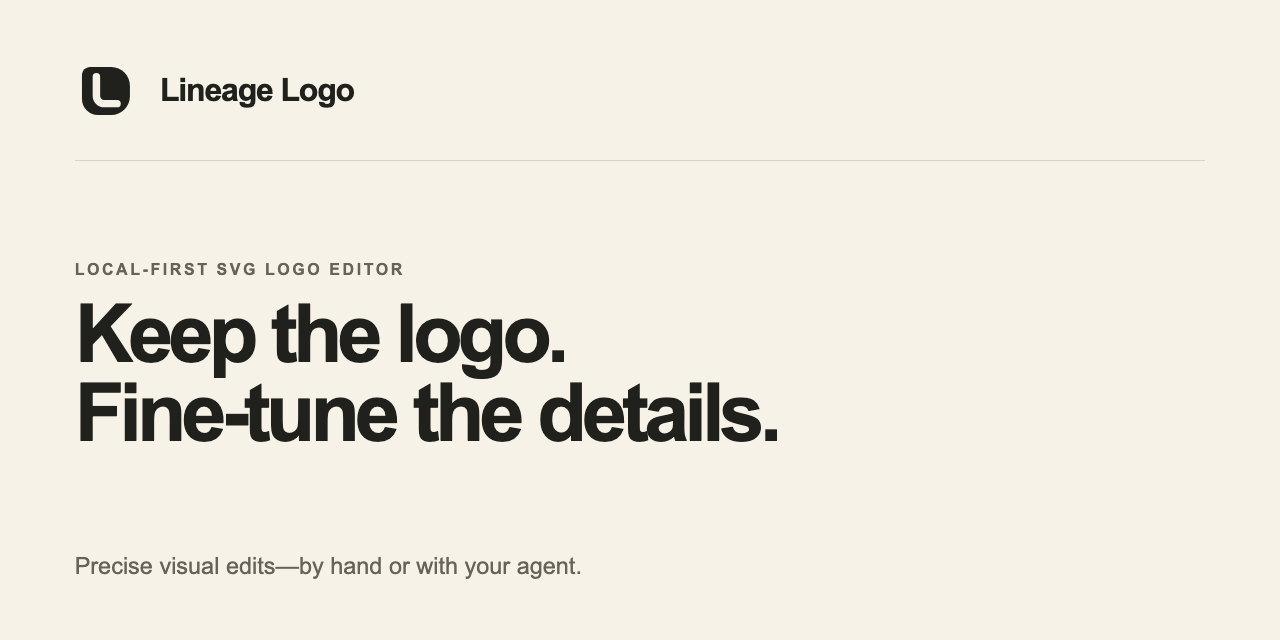
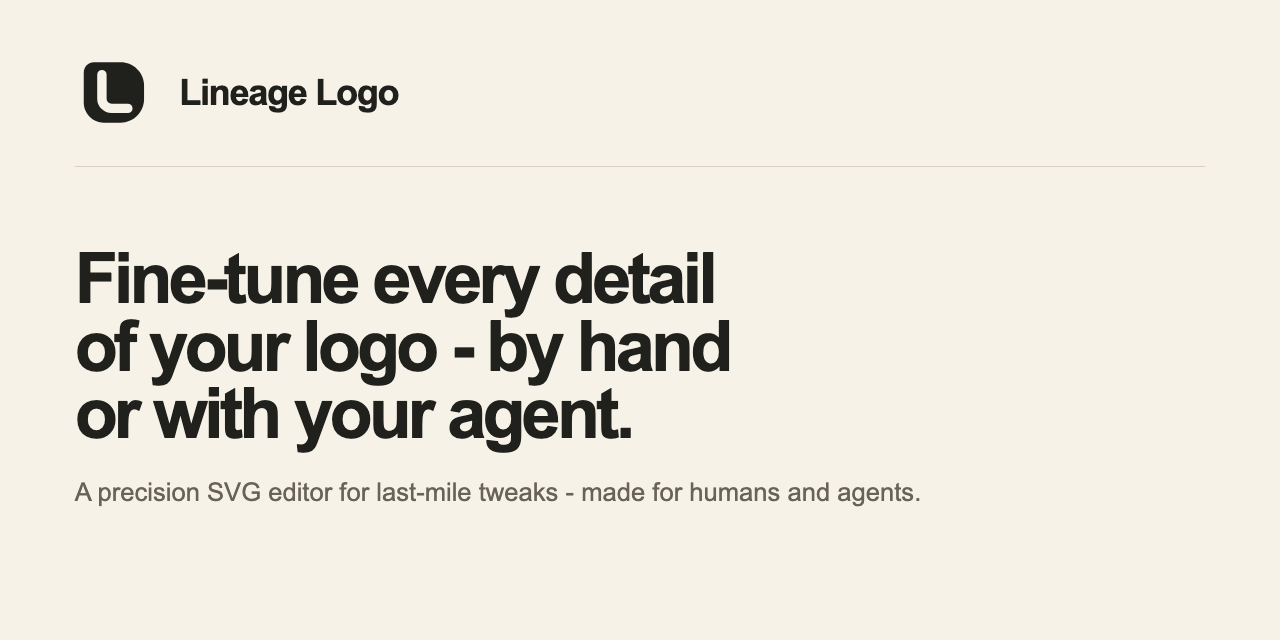
feat: sharpen social share card (#57)

diff --git a/tests/brand-assets.test.ts b/tests/brand-assets.test.ts
@@ -11,6 +11,71 @@ async function pngSize(path: string): Promise<{ width: number; height: number }>
   return { width: image.width, height: image.height };
 }
 
+async function darkPixelBounds(
+  path: string,
+  region: { left: number; top: number; right: number; bottom: number },
+): Promise<{ width: number; height: number }> {
+  const bytes = await readFile(new URL(path, siteRoot));
+  const image = PNG.sync.read(bytes);
+  let minX = region.right;
+  let minY = region.bottom;
+  let maxX = region.left - 1;
+  let maxY = region.top - 1;
+
+  for (let y = region.top; y < region.bottom; y += 1) {
+    for (let x = region.left; x < region.right; x += 1) {
+      const offset = (y * image.width + x) * 4;
+      const isDark = image.data[offset] < 80
+        && image.data[offset + 1] < 80
+        && image.data[offset + 2] < 80
+        && image.data[offset + 3] > 200;
+      if (!isDark) continue;
+      minX = Math.min(minX, x);
+      minY = Math.min(minY, y);
+      maxX = Math.max(maxX, x);
+      maxY = Math.max(maxY, y);
+    }
+  }
+
+  return {
+    width: maxX >= minX ? maxX - minX + 1 : 0,
+    height: maxY >= minY ? maxY - minY + 1 : 0,
+  };
+}
+
+async function textRowBands(
+  path: string,
+  region: { left: number; top: number; right: number; bottom: number },
+): Promise<Array<{ top: number; bottom: number }>> {
+  const bytes = await readFile(new URL(path, siteRoot));
+  const image = PNG.sync.read(bytes);
+  const activeRows: number[] = [];
+
+  for (let y = region.top; y < region.bottom; y += 1) {
+    let darkPixels = 0;
+    for (let x = region.left; x < region.right; x += 1) {
+      const offset = (y * image.width + x) * 4;
+      const isTextPixel = image.data[offset] < 140
+        && image.data[offset + 1] < 140
+        && image.data[offset + 2] < 140
+        && image.data[offset + 3] > 200;
+      if (isTextPixel) darkPixels += 1;
+    }
+    if (darkPixels > 12) activeRows.push(y);
+  }
+
+  const bands: Array<{ top: number; bottom: number }> = [];
+  for (const y of activeRows) {
+    const current = bands.at(-1);
+    if (!current || y > current.bottom + 10) {
+      bands.push({ top: y, bottom: y });
+    } else {
+      current.bottom = y;
+    }
+  }
+  return bands;
+}
+
 describe("published brand assets", () => {
   it.each([
     ["favicon-16.png", 16, 16],
@@ -21,6 +86,30 @@ describe("published brand assets", () => {
     ["assets/brand/github-social-preview.png", 1280, 640],
   ])("ships %s at %ix%i", async (path, width, height) => {
     await expect(pngSize(path)).resolves.toEqual({ width, height });
+  });
+
+  it("keeps the social-card mark prominent at link-preview size", async () => {
+    const bounds = await darkPixelBounds("assets/brand/social-card.png", {
+      left: 30,
+      top: 20,
+      right: 145,
+      bottom: 150,
+    });
+
+    expect(bounds.width).toBeGreaterThanOrEqual(56);
+    expect(bounds.height).toBeGreaterThanOrEqual(56);
+  });
+
+  it("keeps the supporting message visually connected to the headline", async () => {
+    const bands = await textRowBands("assets/brand/social-card.png", {
+      left: 50,
+      top: 170,
+      right: 1150,
+      bottom: 610,
+    });
+
+    expect(bands).toHaveLength(2);
+    expect(bands[1].top - bands[0].bottom).toBeLessThanOrEqual(40);
   });
 
   it("publishes favicon, touch-icon, Open Graph, and Twitter card metadata", async () => {

diff --git a/scripts/generate-brand-assets.ts b/scripts/generate-brand-assets.ts
@@ -39,16 +39,15 @@ async function captureIcon(output: string, size: number, inset: number, backgrou
 
 function socialCard(width: number, height: number): string {
   const scale = width / 1200;
-  return `<main style="width:100%;height:100%;padding:${54 * scale}px ${70 * scale}px ${56 * scale}px;background:#F7F2E8;color:#20201D;font-family:Arial,Helvetica,sans-serif;display:flex;flex-direction:column">
-    <header style="display:flex;align-items:center;gap:${18 * scale}px;padding-bottom:${34 * scale}px;border-bottom:${1 * scale}px solid #D9D1C3">
-      <img src="${markUrl}" alt="" style="width:${62 * scale}px;height:${62 * scale}px">
-      <strong style="font-size:${30 * scale}px;letter-spacing:-${1.1 * scale}px">Lineage Logo</strong>
+  return `<main style="width:100%;height:100%;padding:${48 * scale}px ${70 * scale}px ${52 * scale}px;background:#F7F2E8;color:#20201D;font-family:Arial,Helvetica,sans-serif;display:flex;flex-direction:column">
+    <header style="display:flex;align-items:center;gap:${20 * scale}px;padding-bottom:${30 * scale}px;border-bottom:${1 * scale}px solid #D9D1C3">
+      <img src="${markUrl}" alt="" style="width:${78 * scale}px;height:${78 * scale}px">
+      <strong style="font-size:${34 * scale}px;letter-spacing:-${1.3 * scale}px">Lineage Logo</strong>
     </header>
     <section style="display:flex;flex:1;flex-direction:column;justify-content:center">
-      <div style="margin-bottom:${15 * scale}px;color:#686359;font-size:${15 * scale}px;font-weight:700;letter-spacing:${2.4 * scale}px">LOCAL-FIRST SVG LOGO EDITOR</div>
-      <div style="font-size:${76 * scale}px;font-weight:700;line-height:.98;letter-spacing:-${4.6 * scale}px">Keep the logo.<br>Fine-tune the details.</div>
+      <div style="font-size:${66 * scale}px;font-weight:700;line-height:.96;letter-spacing:-${3.6 * scale}px">Fine-tune every detail<br>of your logo - by hand<br>or with your agent.</div>
+      <div style="margin-top:${28 * scale}px;color:#686359;font-size:${24 * scale}px">A precision SVG editor for last-mile tweaks - made for humans and agents.</div>
     </section>
-    <footer style="color:#686359;font-size:${22 * scale}px">Precise visual edits—by hand or with your agent.</footer>
   </main>`;
 }
 
